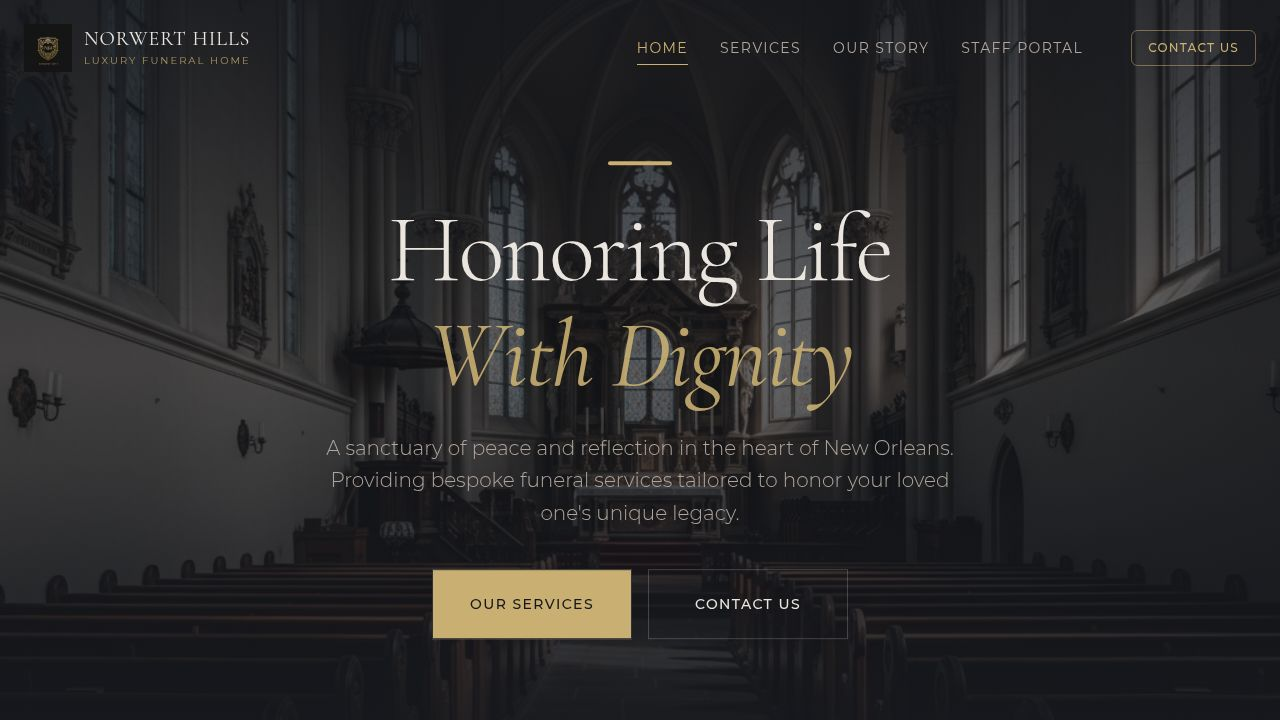
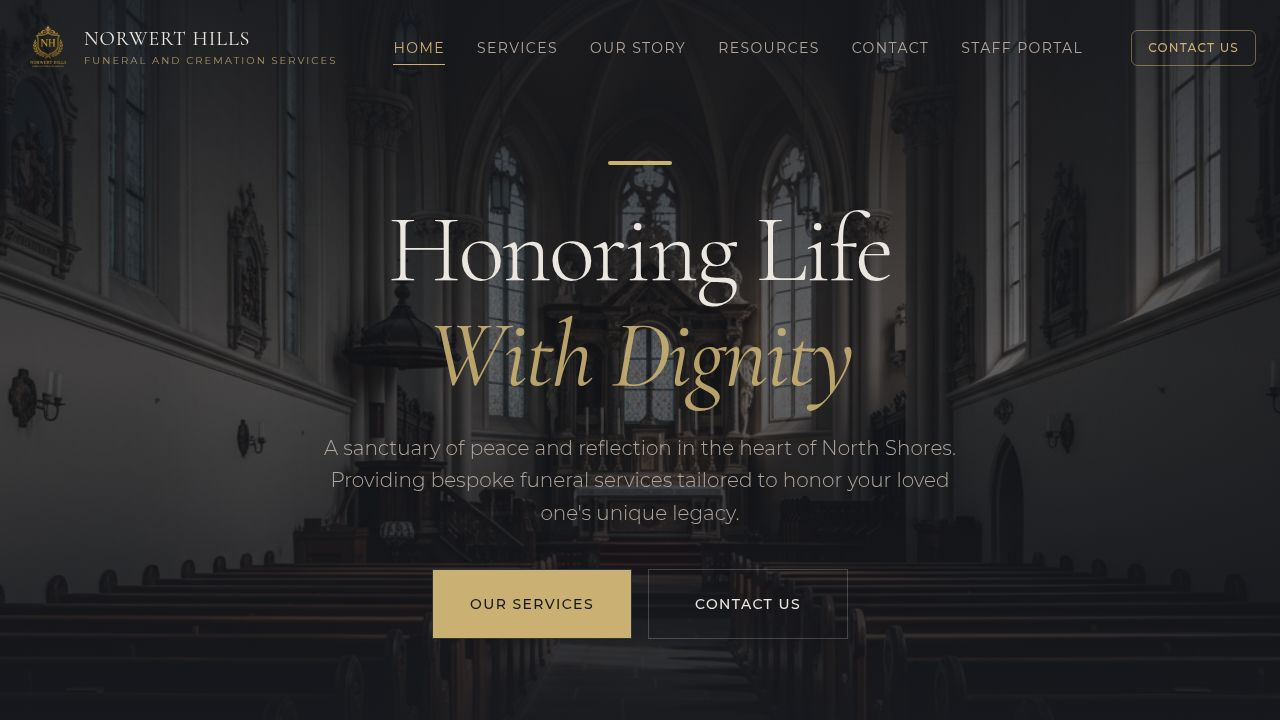
Add public pages for resources and contact with updated navigation
Adds new public pages for `/resources` and `/contact`, and updates the main navigation to include these pages along with the business name displayed consistently.

Replit-Commit-Author: Agent
Replit-Commit-Session-Id: 5ceaf224-1ea6-4566-b80b-40113df3e6a1
Replit-Commit-Checkpoint-Type: full_checkpoint
Replit-Commit-Event-Id: 81b56fb3-bed9-42fd-b876-cbefea3a414d
Replit-Commit-Screenshot-Url: https://storage.googleapis.com/screenshot-production-us-central1/c0a12914-16e8-4463-83b1-a2c8a62e1913/5ceaf224-1ea6-4566-b80b-40113df3e6a1/1J47iYn
Replit-Helium-Checkpoint-Created: true

diff --git a/client/src/components/layout/PublicLayout.tsx b/client/src/components/layout/PublicLayout.tsx
@@ -22,6 +22,8 @@ export function PublicLayout({ children }: { children: React.ReactNode }) {
     { href: "/", label: "Home" },
     { href: "/services", label: "Services" },
     { href: "/about", label: "Our Story" },
+    { href: "/resources", label: "Resources" },
+    { href: "/contact", label: "Contact" },
     { href: "/staff/login", label: "Staff Portal" },
   ];
 
@@ -35,15 +37,15 @@ export function PublicLayout({ children }: { children: React.ReactNode }) {
       >
         <div className="container mx-auto px-6 flex items-center justify-between">
           <Link href="/">
-            <a className="flex items-center gap-3 w-[260px] shrink-0">
+            <a className="flex items-center gap-3 group">
               <img 
                 src="/assets/logo-crest.png" 
                 alt="Norwert Hills Crest" 
                 className="h-12 w-12 object-contain opacity-90 group-hover:opacity-100 transition-opacity" 
               />
               <div className="flex flex-col">
-                <span className="font-serif text-xl tracking-wider whitespace-nowrap text-foreground uppercase leading-none">Norwert Hills</span>
-                <span className="text-[8px] tracking-[0.2em] text-primary/80 uppercase mt-1">Funeral Home and Cremation Services</span>
+                <span className="font-serif text-xl tracking-wider text-foreground uppercase leading-none">Norwert Hills</span>
+                <span className="text-[10px] tracking-[0.2em] text-primary/80 uppercase mt-1">Funeral and Cremation Services</span>
               </div>
             </a>
           </Link>
@@ -54,7 +56,7 @@ export function PublicLayout({ children }: { children: React.ReactNode }) {
               <Link key={link.href} href={link.href}>
                 <a
                   className={cn(
-                    "text-sm tracking-widest uppercase transition-colors hover:text-primary relative",
+                    "text-sm tracking-widest uppercase transition-colors hover:text-primary relative whitespace-nowrap",
                     location === link.href ? "text-primary" : "text-muted-foreground",
                     location === link.href && "after:content-[''] after:absolute after:-bottom-2 after:left-0 after:right-0 after:h-[1px] after:bg-primary"
                   )}
@@ -63,9 +65,11 @@ export function PublicLayout({ children }: { children: React.ReactNode }) {
                 </a>
               </Link>
             ))}
-            <Button variant="outline" className="border-primary/50 text-primary hover:bg-primary hover:text-primary-foreground uppercase text-xs tracking-widest ml-4">
-              Contact Us
-            </Button>
+            <Link href="/contact">
+              <Button variant="outline" className="border-primary/50 text-primary hover:bg-primary hover:text-primary-foreground uppercase text-xs tracking-widest ml-4">
+                Contact Us
+              </Button>
+            </Link>
           </nav>
 
           {/* Mobile Menu Toggle */}
@@ -96,24 +100,30 @@ export function PublicLayout({ children }: { children: React.ReactNode }) {
           </div>
         )}
       </header>
+
       <main className="flex-grow pt-0">
         {children}
       </main>
+
       <footer className="bg-secondary pt-20 pb-10 border-t border-white/5">
         <div className="container mx-auto px-6">
           <div className="grid grid-cols-1 md:grid-cols-4 gap-12 mb-16">
             <div className="md:col-span-1">
-              <img src="/assets/logo-crest.png" alt="Norwert Hills" className="h-16 w-16 mx-auto opacity-80" />
-              <p className="text-muted-foreground text-sm leading-relaxed text-center">Honoring lives with empathy, integrity, and unparalleled attention to detail.</p>
+              <img src="/assets/logo-crest.png" alt="Norwert Hills" className="h-16 w-16 mb-6 opacity-80" />
+              <p className="font-serif text-lg text-foreground mb-2">Norwert Hills</p>
+              <p className="text-primary text-[10px] tracking-[0.2em] uppercase mb-4 leading-tight">Funeral and Cremation Services</p>
+              <p className="text-muted-foreground text-sm leading-relaxed">
+                Honoring lives with dignity, grace, and unparalleled attention to detail since 1924.
+              </p>
             </div>
             
             <div>
               <h4 className="font-serif text-lg text-primary mb-6">Services</h4>
               <ul className="space-y-3 text-sm text-muted-foreground">
-                <li><a href="#" className="hover:text-foreground transition-colors">Traditional Ceremonies</a></li>
-                <li><a href="#" className="hover:text-foreground transition-colors">Cremation Services</a></li>
-                <li><a href="#" className="hover:text-foreground transition-colors">Bespoke Memorials</a></li>
-                <li><a href="#" className="hover:text-foreground transition-colors">Pre-Planning</a></li>
+                <li><Link href="/services/traditional-ceremony" className="hover:text-foreground transition-colors">Traditional Ceremonies</Link></li>
+                <li><Link href="/services/cremation-services" className="hover:text-foreground transition-colors">Cremation Services</Link></li>
+                <li><Link href="/services/bespoke-memorials" className="hover:text-foreground transition-colors">Bespoke Memorials</Link></li>
+                <li><Link href="/services/pre-planning" className="hover:text-foreground transition-colors">Pre-Planning</Link></li>
               </ul>
             </div>
 
@@ -146,7 +156,7 @@ export function PublicLayout({ children }: { children: React.ReactNode }) {
           </div>
           
           <div className="border-t border-white/5 pt-8 flex flex-col md:flex-row justify-between items-center text-xs text-muted-foreground">
-            <p>&copy; 2024 Norwert Hills Funeral Home. All rights reserved.</p>
+            <p>&copy; 2026 Norwert Hills Funeral and Cremation Services. All rights reserved.</p>
             <div className="flex gap-6 mt-4 md:mt-0">
               <a href="#" className="hover:text-foreground">Privacy Policy</a>
               <a href="#" className="hover:text-foreground">Terms of Service</a>

diff --git a/client/src/pages/Contact.tsx b/client/src/pages/Contact.tsx
@@ -1,0 +1,114 @@
+
+import { PublicLayout } from "@/components/layout/PublicLayout";
+import { motion } from "framer-motion";
+import { Phone, Mail, MapPin, Clock, MessageSquare } from "lucide-react";
+import { Button } from "@/components/ui/button";
+import { Input } from "@/components/ui/input";
+import { Textarea } from "@/components/ui/textarea";
+import { Label } from "@/components/ui/label";
+
+export default function Contact() {
+  return (
+    <PublicLayout>
+      <div className="pt-32 pb-20 bg-background min-h-screen">
+        <div className="container mx-auto px-6">
+          <div className="text-center max-w-3xl mx-auto mb-20">
+            <span className="text-primary text-xs uppercase tracking-[0.3em] mb-4 block">Reach Out</span>
+            <h1 className="font-serif text-5xl md:text-6xl mb-6 text-foreground tracking-tight leading-[1.1]">
+               We are here to <br/>
+               <span className="italic text-primary/90">guide you</span>
+            </h1>
+            <p className="text-muted-foreground text-lg font-light leading-relaxed">
+              Available 24 hours a day, 7 days a week. Our compassionate directors are always ready to assist you in your time of need.
+            </p>
+          </div>
+
+          <div className="grid grid-cols-1 lg:grid-cols-2 gap-16 items-start">
+            <motion.div 
+              initial={{ opacity: 0, x: -20 }}
+              animate={{ opacity: 1, x: 0 }}
+              transition={{ duration: 0.8 }}
+              className="space-y-12"
+            >
+              <div className="grid grid-cols-1 md:grid-cols-2 gap-8">
+                <div className="space-y-4">
+                  <div className="flex items-center gap-3 text-primary">
+                    <Phone className="w-5 h-5" />
+                    <span className="text-xs uppercase tracking-widest">Phone</span>
+                  </div>
+                  <p className="text-xl font-serif">(504) 555-0123</p>
+                  <p className="text-sm text-muted-foreground font-light">Available 24/7 for immediate assistance</p>
+                </div>
+                <div className="space-y-4">
+                  <div className="flex items-center gap-3 text-primary">
+                    <Mail className="w-5 h-5" />
+                    <span className="text-xs uppercase tracking-widest">Email</span>
+                  </div>
+                  <p className="text-xl font-serif">care@norwerthills.com</p>
+                  <p className="text-sm text-muted-foreground font-light">For inquiries and pre-planning</p>
+                </div>
+              </div>
+
+              <div className="space-y-4">
+                <div className="flex items-center gap-3 text-primary">
+                  <MapPin className="w-5 h-5" />
+                  <span className="text-xs uppercase tracking-widest">Location</span>
+                </div>
+                <p className="text-xl font-serif">1234 St. Charles Ave, New Orleans, LA 70130</p>
+                <div className="aspect-video w-full bg-secondary/50 rounded-sm border border-white/5 flex items-center justify-center grayscale">
+                  <span className="text-muted-foreground italic text-sm">[ Map Placeholder ]</span>
+                </div>
+              </div>
+
+              <div className="space-y-4 pt-4">
+                 <div className="flex items-center gap-3 text-primary">
+                    <Clock className="w-5 h-5" />
+                    <span className="text-xs uppercase tracking-widest">Office Hours</span>
+                  </div>
+                  <div className="grid grid-cols-2 text-sm font-light text-muted-foreground max-w-xs">
+                    <span>Mon - Fri</span>
+                    <span>9:00 AM - 5:00 PM</span>
+                    <span>Sat - Sun</span>
+                    <span>By Appointment</span>
+                  </div>
+              </div>
+            </motion.div>
+
+            <motion.div 
+              initial={{ opacity: 0, x: 20 }}
+              animate={{ opacity: 1, x: 0 }}
+              transition={{ duration: 0.8, delay: 0.2 }}
+              className="bg-card p-8 md:p-12 border border-white/5 rounded-sm relative"
+            >
+              <div className="absolute top-0 right-0 w-32 h-32 bg-primary/5 blur-3xl -z-10" />
+              <h2 className="font-serif text-3xl mb-8">Send a Message</h2>
+              <form className="space-y-6">
+                <div className="grid grid-cols-1 md:grid-cols-2 gap-6">
+                  <div className="space-y-2">
+                    <Label htmlFor="name" className="text-xs uppercase tracking-widest text-muted-foreground">Full Name</Label>
+                    <Input id="name" className="bg-background/50 border-white/10" placeholder="John Doe" />
+                  </div>
+                  <div className="space-y-2">
+                    <Label htmlFor="email" className="text-xs uppercase tracking-widest text-muted-foreground">Email Address</Label>
+                    <Input id="email" type="email" className="bg-background/50 border-white/10" placeholder="john@example.com" />
+                  </div>
+                </div>
+                <div className="space-y-2">
+                  <Label htmlFor="subject" className="text-xs uppercase tracking-widest text-muted-foreground">Subject</Label>
+                  <Input id="subject" className="bg-background/50 border-white/10" placeholder="Pre-planning inquiry" />
+                </div>
+                <div className="space-y-2">
+                  <Label htmlFor="message" className="text-xs uppercase tracking-widest text-muted-foreground">Message</Label>
+                  <Textarea id="message" className="bg-background/50 border-white/10 min-h-[150px]" placeholder="How can we help you?" />
+                </div>
+                <Button className="w-full bg-primary text-primary-foreground hover:bg-primary/90 uppercase text-xs tracking-[0.2em] py-6">
+                   Send Message
+                </Button>
+              </form>
+            </motion.div>
+          </div>
+        </div>
+      </div>
+    </PublicLayout>
+  );
+}

diff --git a/client/src/pages/Resources.tsx b/client/src/pages/Resources.tsx
@@ -1,0 +1,110 @@
+
+import { PublicLayout } from "@/components/layout/PublicLayout";
+import { motion } from "framer-motion";
+import { ArrowRight, BookOpen, Heart, Clock } from "lucide-react";
+import { Link } from "wouter";
+import { Button } from "@/components/ui/button";
+
+const articles = [
+  {
+    title: "Understanding Cremation: A Guide for Families",
+    excerpt: "Exploring the process, options, and considerations when choosing cremation for a loved one.",
+    category: "Planning",
+    readTime: "6 min read",
+    image: "/assets/texture-marble.png"
+  },
+  {
+    title: "The Art of the Bespoke Memorial",
+    excerpt: "How to craft a tribute that truly reflects the unique spirit and legacy of an individual.",
+    category: "Honoring",
+    readTime: "8 min read",
+    image: "/assets/hero-chapel.png"
+  },
+  {
+    title: "Planning Ahead: The Gift of Peace",
+    excerpt: "The emotional and practical benefits of pre-planning funeral services.",
+    category: "Guidance",
+    readTime: "5 min read",
+    image: "/assets/staff-interaction.png"
+  }
+];
+
+export default function Resources() {
+  return (
+    <PublicLayout>
+      <div className="pt-32 pb-20 bg-background relative overflow-hidden min-h-screen">
+        <div className="absolute top-0 right-0 w-1/3 h-[50vh] bg-[url('/assets/texture-marble.png')] opacity-10 mix-blend-overlay z-0" />
+        
+        <div className="container mx-auto px-6 relative z-10">
+          <div className="text-center max-w-3xl mx-auto mb-20">
+            <span className="text-primary text-xs uppercase tracking-[0.3em] mb-4 block">Guidance & Support</span>
+            <h1 className="font-serif text-5xl md:text-6xl mb-6">Educational Resources</h1>
+            <p className="text-muted-foreground text-lg font-light leading-relaxed">
+              We provide these resources to help you navigate one of life's most challenging transitions with clarity and peace of mind.
+            </p>
+          </div>
+
+          <div className="grid grid-cols-1 md:grid-cols-3 gap-8 mb-24">
+            {articles.map((article, index) => (
+              <motion.article 
+                key={index}
+                initial={{ opacity: 0, y: 20 }}
+                whileInView={{ opacity: 1, y: 0 }}
+                transition={{ duration: 0.6, delay: index * 0.1 }}
+                viewport={{ once: true }}
+                className="group cursor-pointer"
+              >
+                <div className="aspect-[16/10] overflow-hidden mb-6 relative rounded-sm border border-white/5">
+                  <img 
+                    src={article.image} 
+                    alt={article.title} 
+                    className="w-full h-full object-cover grayscale-[30%] group-hover:grayscale-0 transition-all duration-700 group-hover:scale-105" 
+                  />
+                  <div className="absolute top-4 left-4">
+                    <span className="bg-background/80 backdrop-blur-md text-primary text-[10px] uppercase tracking-widest px-3 py-1 rounded-full border border-primary/20">
+                      {article.category}
+                    </span>
+                  </div>
+                </div>
+                <div className="flex items-center gap-4 text-muted-foreground text-[10px] uppercase tracking-widest mb-3">
+                  <span className="flex items-center gap-1"><Clock className="w-3 h-3" /> {article.readTime}</span>
+                </div>
+                <h2 className="font-serif text-2xl group-hover:text-primary transition-colors mb-4">{article.title}</h2>
+                <p className="text-muted-foreground text-sm font-light leading-relaxed mb-6">
+                  {article.excerpt}
+                </p>
+                <span className="inline-flex items-center gap-2 text-primary text-xs uppercase tracking-widest group-hover:gap-3 transition-all">
+                  Read Article <ArrowRight className="w-4 h-4" />
+                </span>
+              </motion.article>
+            ))}
+          </div>
+
+          <section className="bg-secondary/30 rounded-lg p-12 border border-white/5 relative overflow-hidden">
+            <div className="absolute bottom-0 right-0 w-64 h-64 bg-primary/5 rounded-full blur-3xl -mb-32 -mr-32" />
+            <div className="max-w-2xl relative z-10">
+              <h2 className="font-serif text-3xl mb-6">A Guide to Cremation Services</h2>
+              <div className="prose prose-invert prose-sm text-muted-foreground font-light leading-loose space-y-4">
+                <p>
+                  Cremation has become an increasingly chosen option for families seeking flexibility and personalization. At Norwert Hills, we approach cremation with the same dignity and ceremonial weight as a traditional burial.
+                </p>
+                <p>
+                  <strong>The Process:</strong> Cremation is a clean and respectful process where the body is reduced to bone fragments through high-temperature thermal processing. These fragments are then processed into fine particles, often referred to as cremated remains.
+                </p>
+                <p>
+                  <strong>Options for Honoring:</strong> Choosing cremation does not mean you must forego a traditional ceremony. Many families choose to have a full funeral service with the body present before cremation, or a memorial service with the urn as the focal point.
+                </p>
+                <p>
+                  <strong>Final Disposition:</strong> Families may choose to keep the urn in a private residence, place it in a columbarium niche, bury it in a family plot, or scatter the remains in a location of special significance.
+                </p>
+              </div>
+              <Button variant="outline" className="mt-8 border-primary/30 text-primary hover:bg-primary/10 uppercase text-xs tracking-widest">
+                Download Comprehensive Guide
+              </Button>
+            </div>
+          </section>
+        </div>
+      </div>
+    </PublicLayout>
+  );
+}

diff --git a/client/src/App.tsx b/client/src/App.tsx
@@ -9,6 +9,8 @@ import Home from "@/pages/Home";
 import Services from "@/pages/Services";
 import ServiceDetail from "@/pages/ServiceDetail";
 import About from "@/pages/About";
+import Resources from "@/pages/Resources";
+import Contact from "@/pages/Contact";
 import StaffLogin from "@/pages/staff/Login";
 import Dashboard from "@/pages/staff/Dashboard";
 import Builder from "@/pages/staff/Builder";
@@ -21,6 +23,8 @@ function Router() {
       <Route path="/services" component={Services} />
       <Route path="/services/:id" component={ServiceDetail} />
       <Route path="/about" component={About} />
+      <Route path="/resources" component={Resources} />
+      <Route path="/contact" component={Contact} />
       <Route path="/staff/login" component={StaffLogin} />
       <Route path="/staff/dashboard" component={Dashboard} />
       <Route path="/staff/builder" component={Builder} />
